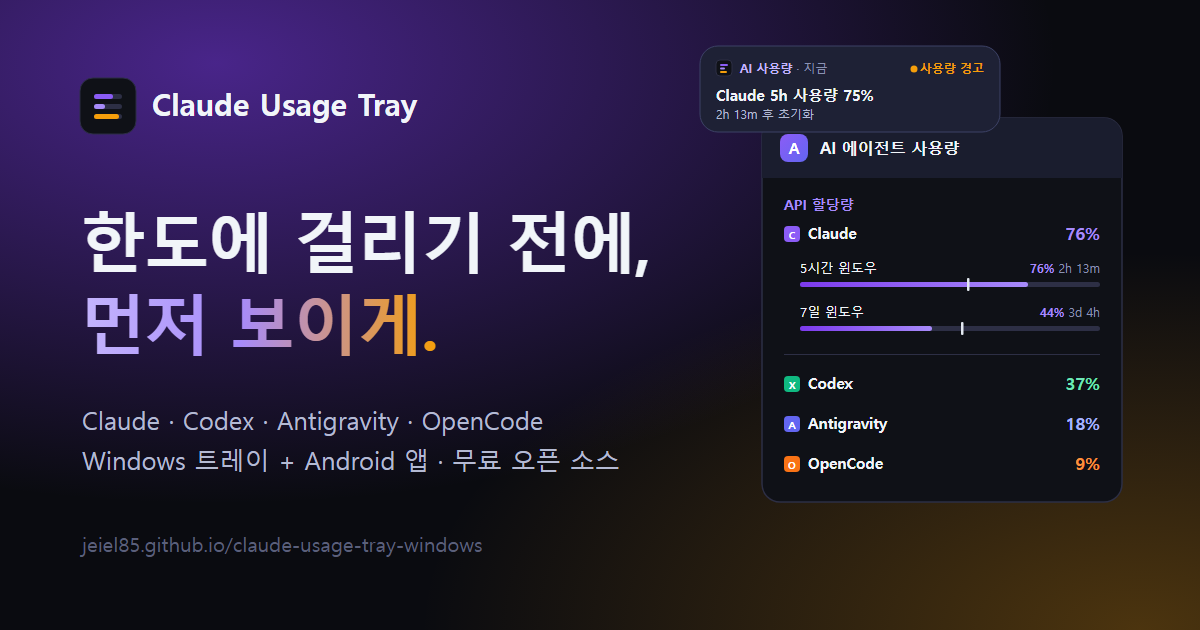
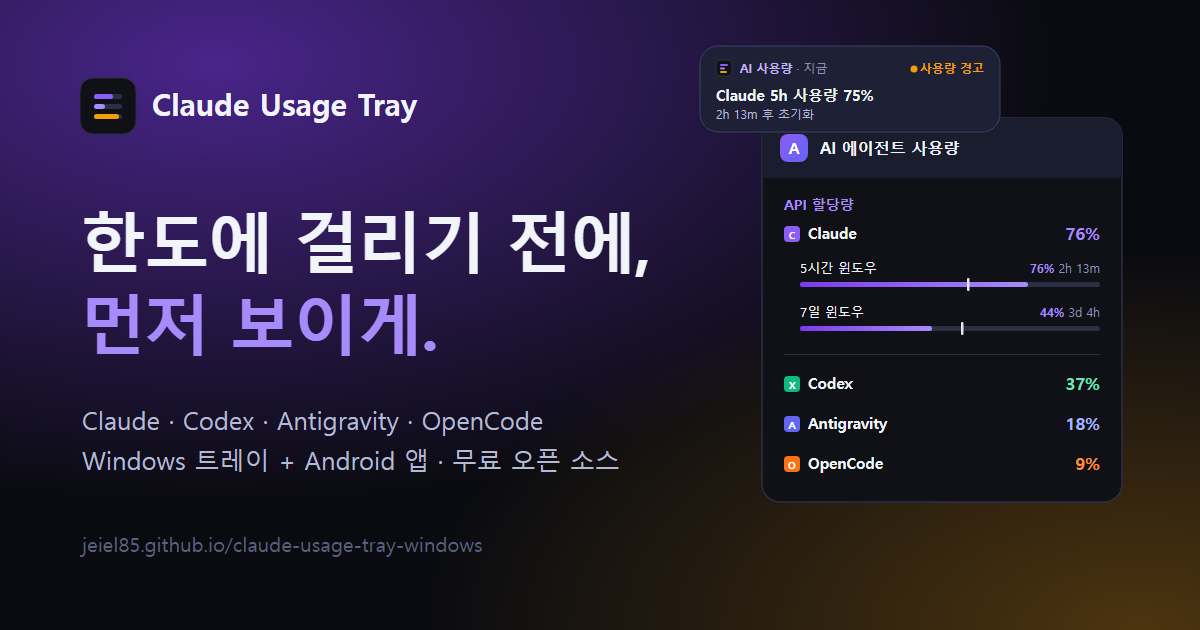
Landing page: solid accent color instead of gradient headline text (#289)

Changed region(s): [[0.2158, 0.4524, 0.37, 0.573], [0.0617, 0.4524, 0.1233, 0.573]]

diff --git a/docs/index.html b/docs/index.html
@@ -81,7 +81,7 @@ h2{font-size:clamp(2rem,3.8vw,3.1rem);line-height:1.18;letter-spacing:-.035em;fo
 .head{margin-bottom:56px}
 .head.center{text-align:center}
 .head.center .lead{margin-left:auto;margin-right:auto}
-.grad{background:linear-gradient(92deg,#C4B5FD 0%,#A78BFA 38%,#F59E0B 100%);-webkit-background-clip:text;background-clip:text;color:transparent}
+.grad{color:var(--violet-2)}
 .two{display:grid;grid-template-columns:minmax(0,1fr) minmax(0,1fr);gap:72px;align-items:center}
 @media (max-width:980px){.two{grid-template-columns:minmax(0,1fr);gap:48px}.sec-pad{padding:84px 0}}
 .js .reveal{opacity:0;transform:translateY(24px);transition:opacity .8s var(--ease),transform .8s var(--ease)}
